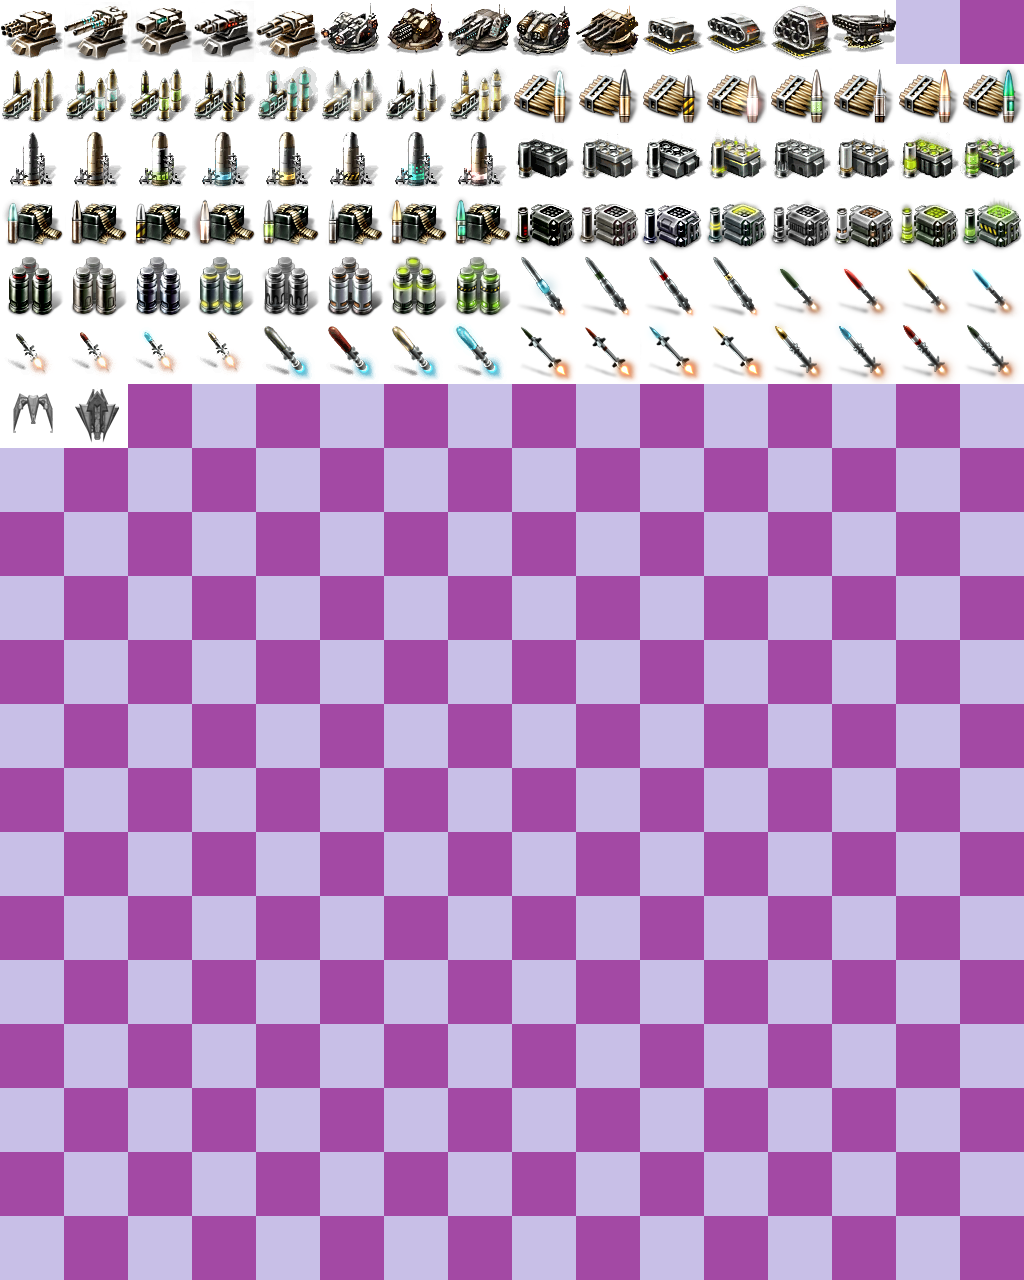
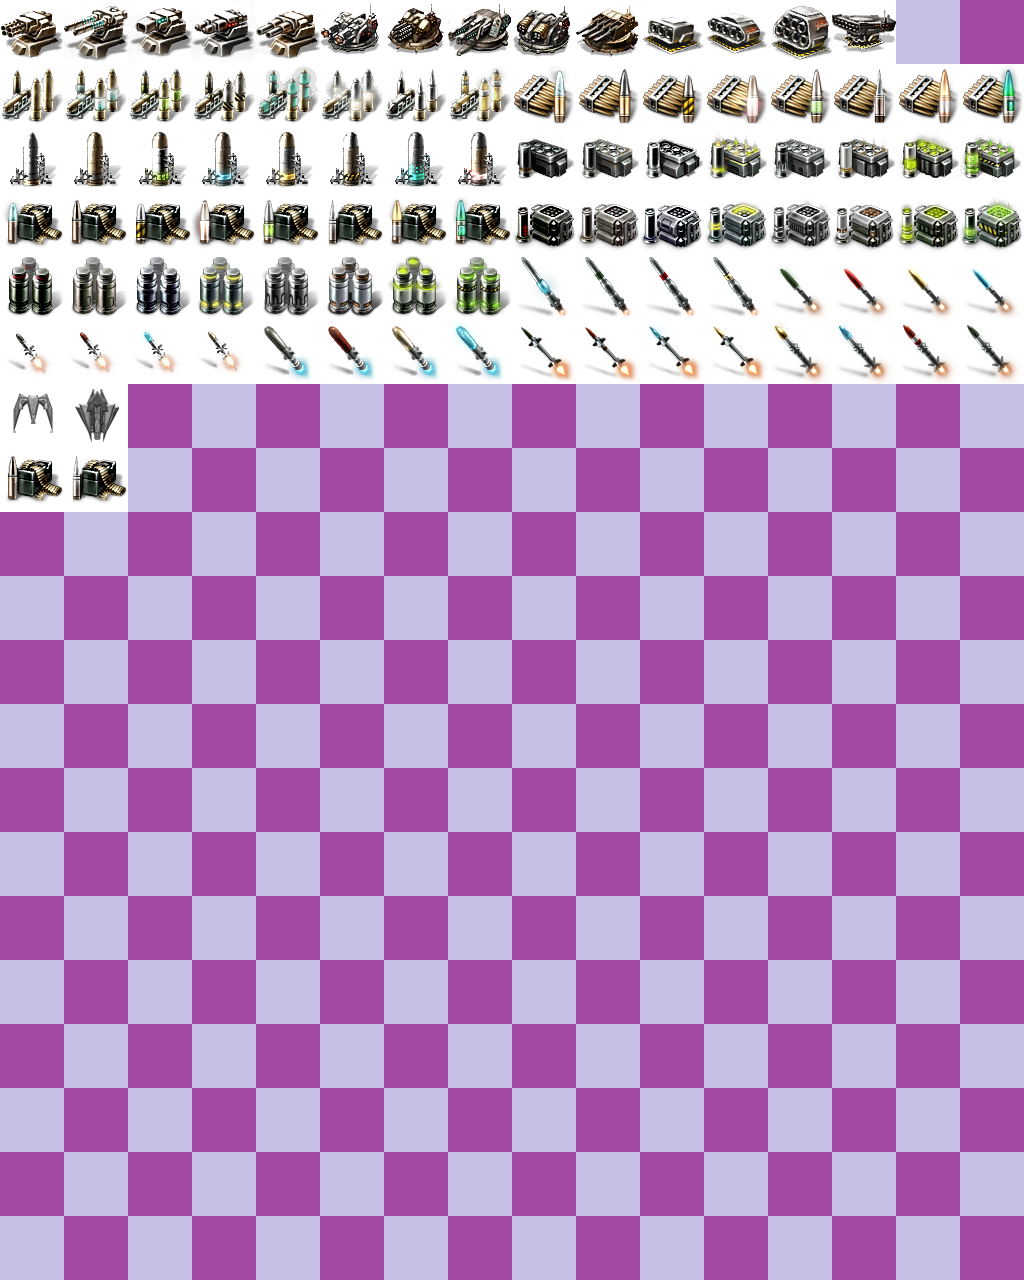
Add some ammos

Changed region(s): [[0.0, 0.3438, 0.125, 0.4062]]

diff --git a/src/space_2/AmmoModel.cpp b/src/space_2/AmmoModel.cpp
@@ -13,7 +13,6 @@
 #define AMMOMODEL_CONFIG_PROJECTILESCALE	"projectile_scale"
 #define AMMOMODEL_CONFIG_SOUNDFIRE			"sound_fire"
 #define AMMOMODEL_CONFIG_AMMOTYPE			"ammotype"
-#define AMMOMODEL_CONFIG_WEAPONTYPE			"weapontype"
 
 
 //*************************************************************
@@ -22,8 +21,6 @@
 AmmoModel::AmmoModel(KeyValueFile* p_config): Item(p_config->getInt("id"))
 {
 	this->mAmmoType = NULL;
-	this->mWeaponType = NULL;
-
 	this->loadFromConfig(p_config);
 }
 
@@ -115,16 +112,6 @@ void AmmoModel::setAmmoType( AmmoType* p_type )
 	this->mAmmoType = p_type;
 }
 
-ItemType* AmmoModel::getWeaponType()
-{
-	return this->mWeaponType;
-}
-
-void AmmoModel::setWeaponType( ItemType* p_type )
-{
-	this->mWeaponType = p_type;
-}
-
 
 //*************************************************************
 // Methods
@@ -147,9 +134,6 @@ void AmmoModel::loadFromConfig( KeyValueFile* p_config )
 
 	if(p_config->has(AMMOMODEL_CONFIG_AMMOTYPE))
 		this->setAmmoType(FactoryGet::getAmmoTypeFactory()->getAmmoType(p_config->getLong(AMMOMODEL_CONFIG_AMMOTYPE)));
-
-	if(p_config->has(AMMOMODEL_CONFIG_WEAPONTYPE))
-		this->setWeaponType(FactoryGet::getItemTypeFactory()->getItemType(p_config->getLong(AMMOMODEL_CONFIG_WEAPONTYPE)));
 
 	if(p_config->has(AMMOMODEL_CONFIG_PROJECTILETYPE))
 		this->setProjectileType((Projectile::ProjectileType)p_config->getInt(AMMOMODEL_CONFIG_PROJECTILETYPE));

diff --git a/src/space_2/AmmoModel.h b/src/space_2/AmmoModel.h
@@ -38,9 +38,6 @@ public:
 	AmmoType* getAmmoType();
 	void setAmmoType(AmmoType* p_type);
 
-	ItemType* getWeaponType();
-	void setWeaponType(ItemType* p_type);
-
 	// Methods
 	void loadFromConfig(KeyValueFile* p_config);
 
@@ -55,6 +52,5 @@ private:
 	float mProjectileScale;
 	std::string mSoundFire;
 	AmmoType* mAmmoType;
-	ItemType* mWeaponType;
 };
 
